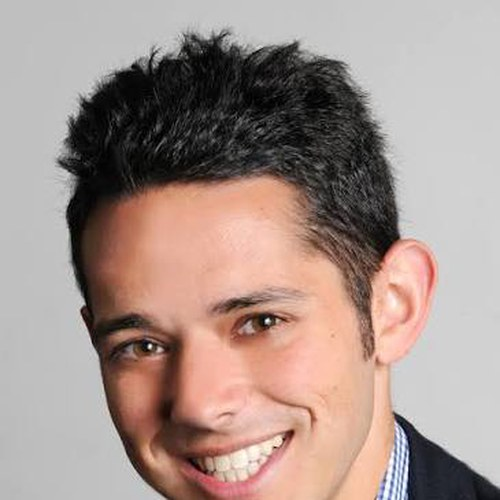
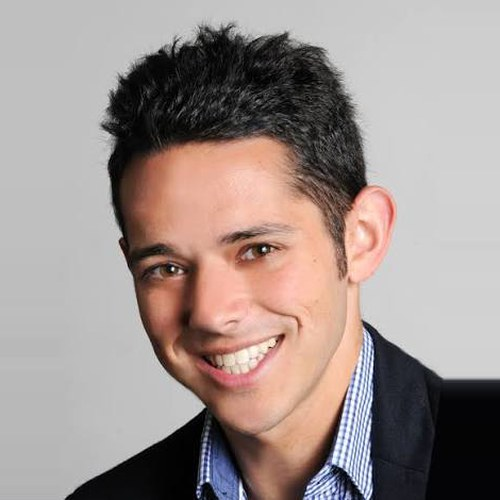
Add submission deadlines, OpenReview link and venue; fix speaker photo crop

diff --git a/index.html b/index.html
@@ -122,7 +122,7 @@
       </h1>
       <p style="font-size: 28px; color: rgba(255, 255, 255, 0.9); margin-top: 25px; font-weight: 300; letter-spacing: 0.5px;">
         February 22/23, 2027<br>
-        Montreal, Canada
+        Montr&eacute;al, Canada
       </p>
     </div>
   </section>
@@ -259,11 +259,11 @@
         </div>
         <h3>Key Dates</h3>
         <ul>
-          <li><b>Submission Deadline</b>: TBA</li>
-          <li><b>Notification of Acceptance</b>: TBA</li>
+          <li><b>Submission Deadline</b>: November 20, 2026</li>
+          <li><b>Notification of Acceptance</b>: December 2, 2026</li>
           <li><b>Workshop</b>: February 22/23, 2027</li>
         </ul>
-        <br>
+        <p>All deadlines are &ldquo;anywhere on earth&rdquo; (UTC-12).</p>
         <h3>Submission Format</h3>
         <p>
           We solicit two types of papers:<br>
@@ -273,7 +273,7 @@
         </p>
         <h3>Submission Site</h3>
         <p>
-          TBA
+          Papers are submitted via OpenReview: <a href="https://openreview.net/group?id=AAAI.org/2027/Workshop/PGAI4E" target="_blank" rel="noopener">https://openreview.net/group?id=AAAI.org/2027/Workshop/PGAI4E</a>
         </p>
       </div>
     </section>
@@ -415,7 +415,7 @@
 
         <div class="row justify-content-center">
           <div class="col-lg-12 mb-5" data-aos="fade-up" data-aos-delay="100">
-            <p class="text-center" style="font-size: 18px;">Montreal, Canada. Venue details: TBA.</p>
+            <p class="text-center" style="font-size: 18px;">The workshop is part of <a href="https://aaai.org/conference/aaai/aaai-27/" target="_blank" rel="noopener">AAAI-27</a>, held in Montr&eacute;al, Canada.</p>
           </div>
         </div>
       </div>
